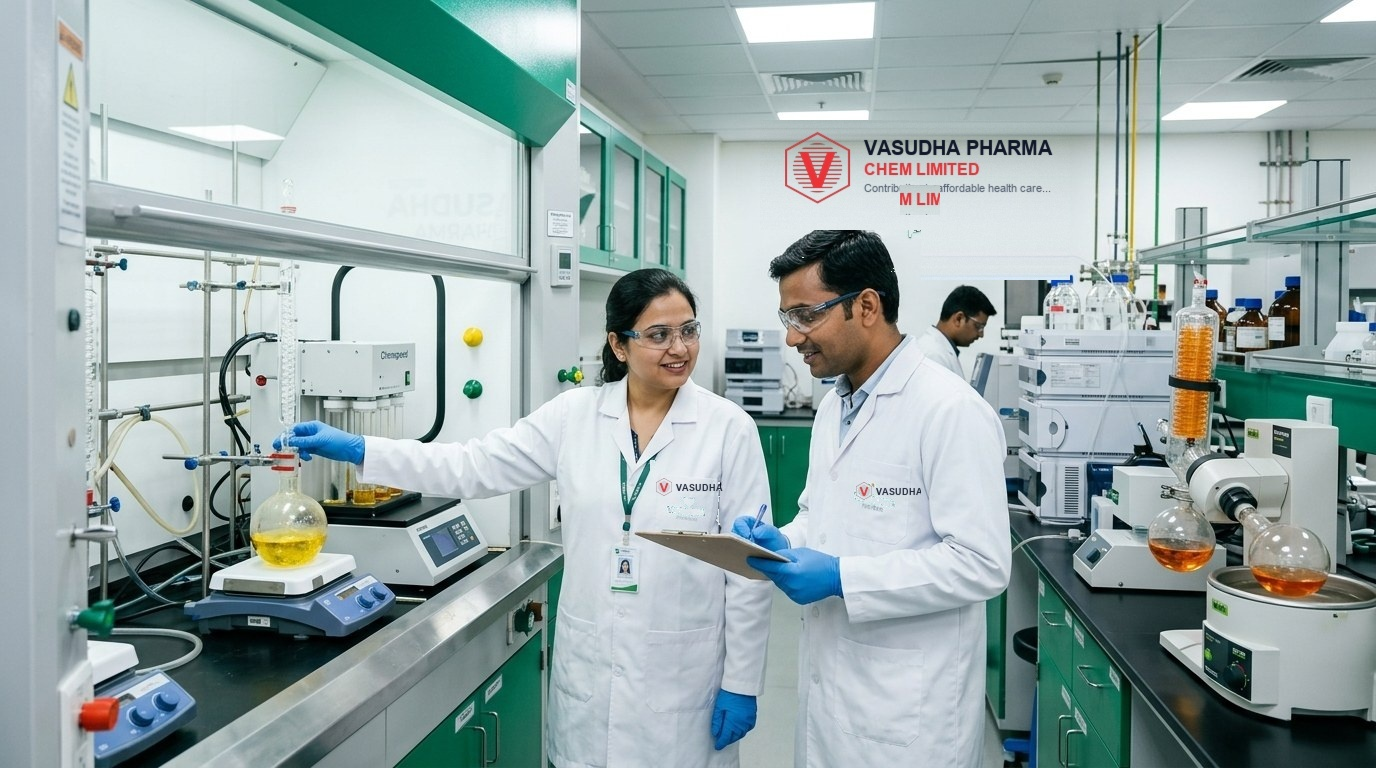
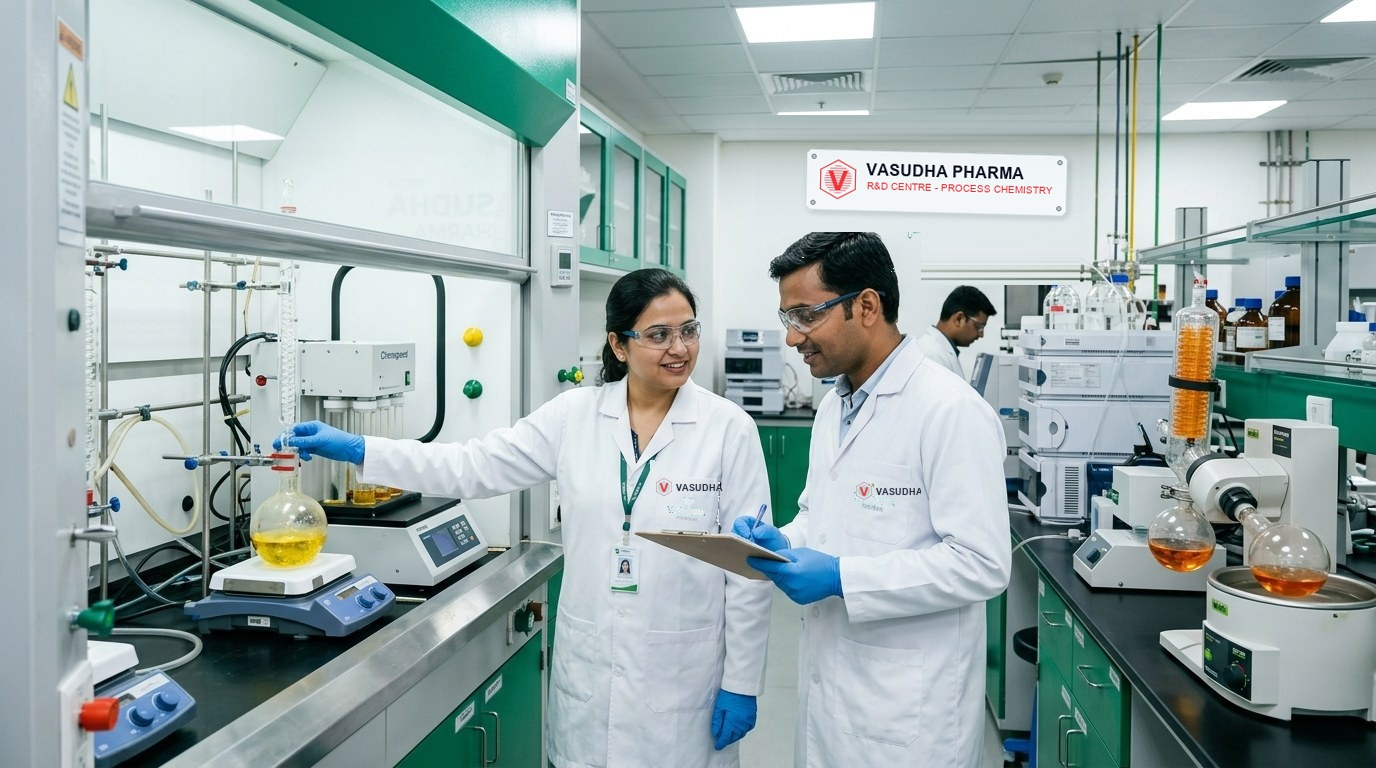
fix(careers): Perfect R&D laboratory wall signage alignment, remove glitch artifacts, and eliminate duplicate image reuse across student tracks

Changed region(s): [[0.5625, 0.1875, 0.7812, 0.2812], [0.6562, 0.3438, 0.7812, 0.375], [0.5625, 0.125, 0.625, 0.1562]]

diff --git a/student-opportunities.html b/student-opportunities.html
@@ -7278,7 +7278,7 @@
       <div class="cp-grid-3">
         <!-- Track 1: Graduate Executive Trainee -->
         <div class="cp-card">
-          <img src="assets/ehs-green-chemistry.jpg" alt="Graduate Executive Trainees in Synthesis Laboratory at Vasudha" class="cp-card-img">
+          <img src="assets/ehs-safety-culture.jpg" alt="Graduate Executive Trainees & Engineering Mentors at Vasudha Pharma" class="cp-card-img">
           <div class="cp-card-body">
             <span class="cp-card-tag">Full-Time Career Track</span>
             <h3 class="cp-card-title">Graduate Executive Trainee (GET / PET)</h3>
@@ -7294,7 +7294,7 @@
 
         <!-- Track 2: Summer Internship Immersion -->
         <div class="cp-card">
-          <img src="assets/careers-rd-synthetic.webp" alt="Hands-on Industrial Research in Organic Synthesis at Vasudha" class="cp-card-img">
+          <img src="assets/ehs-green-chemistry.jpg" alt="Research Interns Conducting Advanced Synthesis & Analytical Testing at Vasudha Pharma" class="cp-card-img">
           <div class="cp-card-body">
             <span class="cp-card-tag">Summer Immersion</span>
             <h3 class="cp-card-title">Industrial Research Internship</h3>
